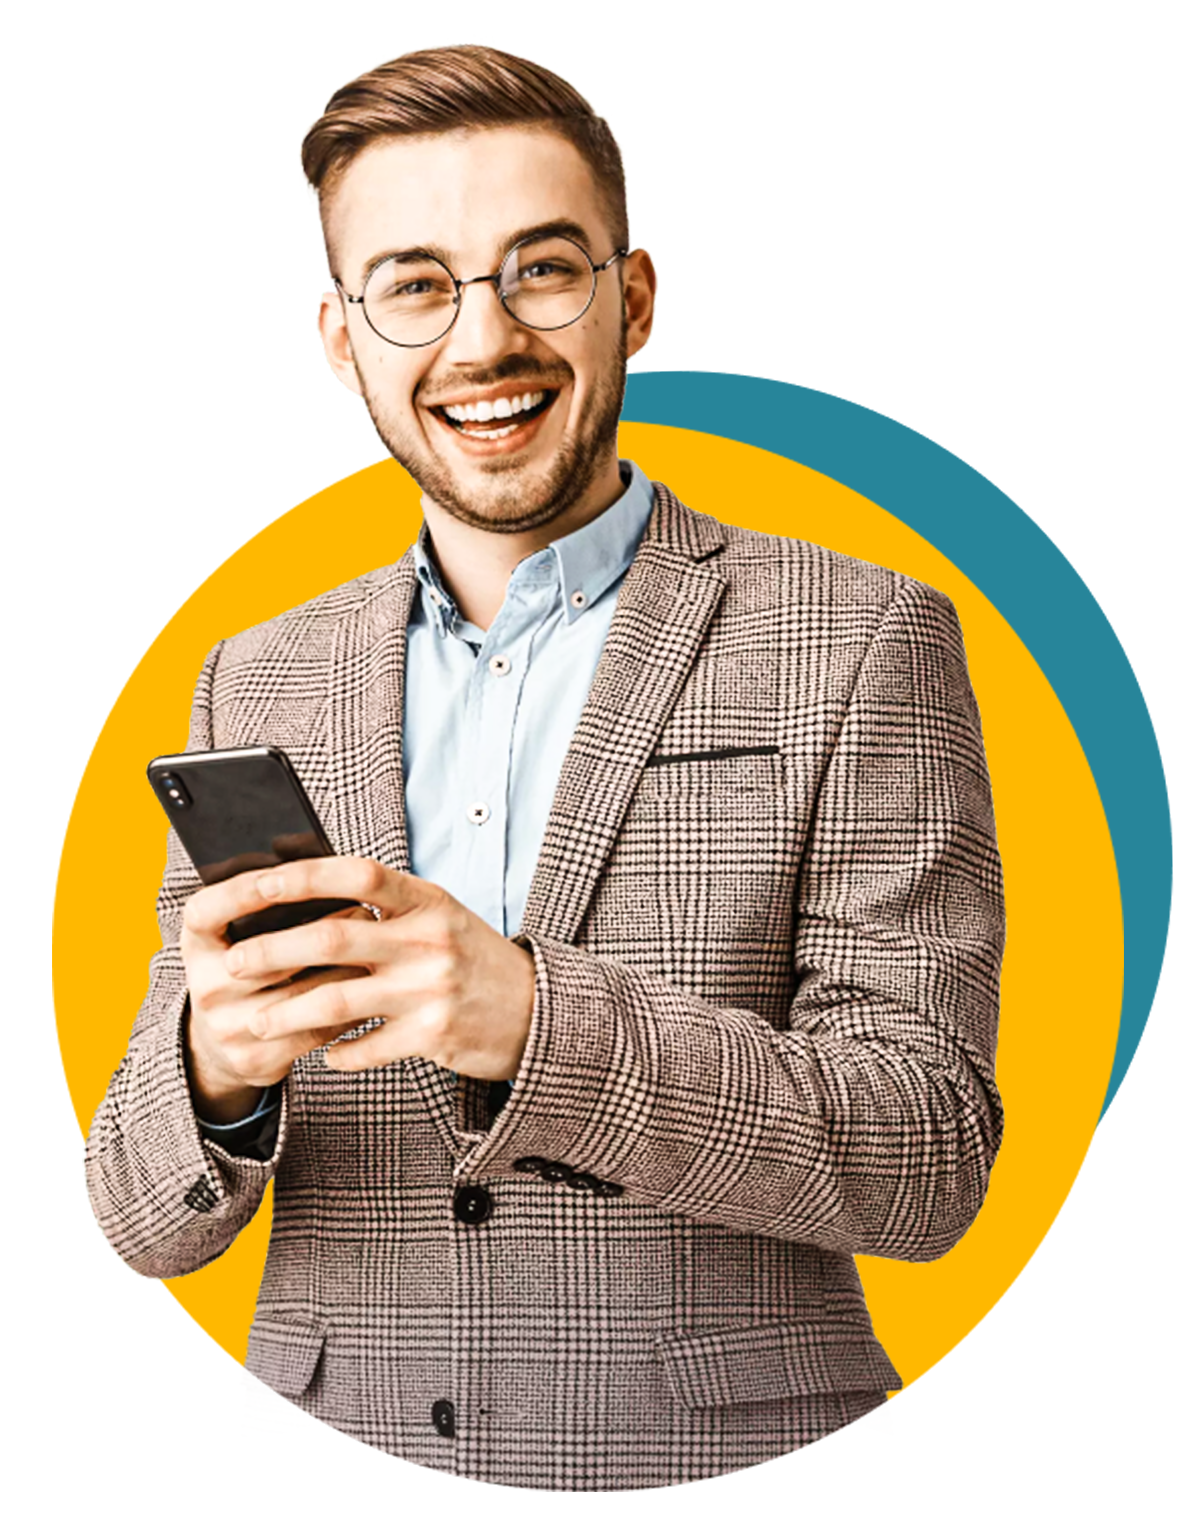
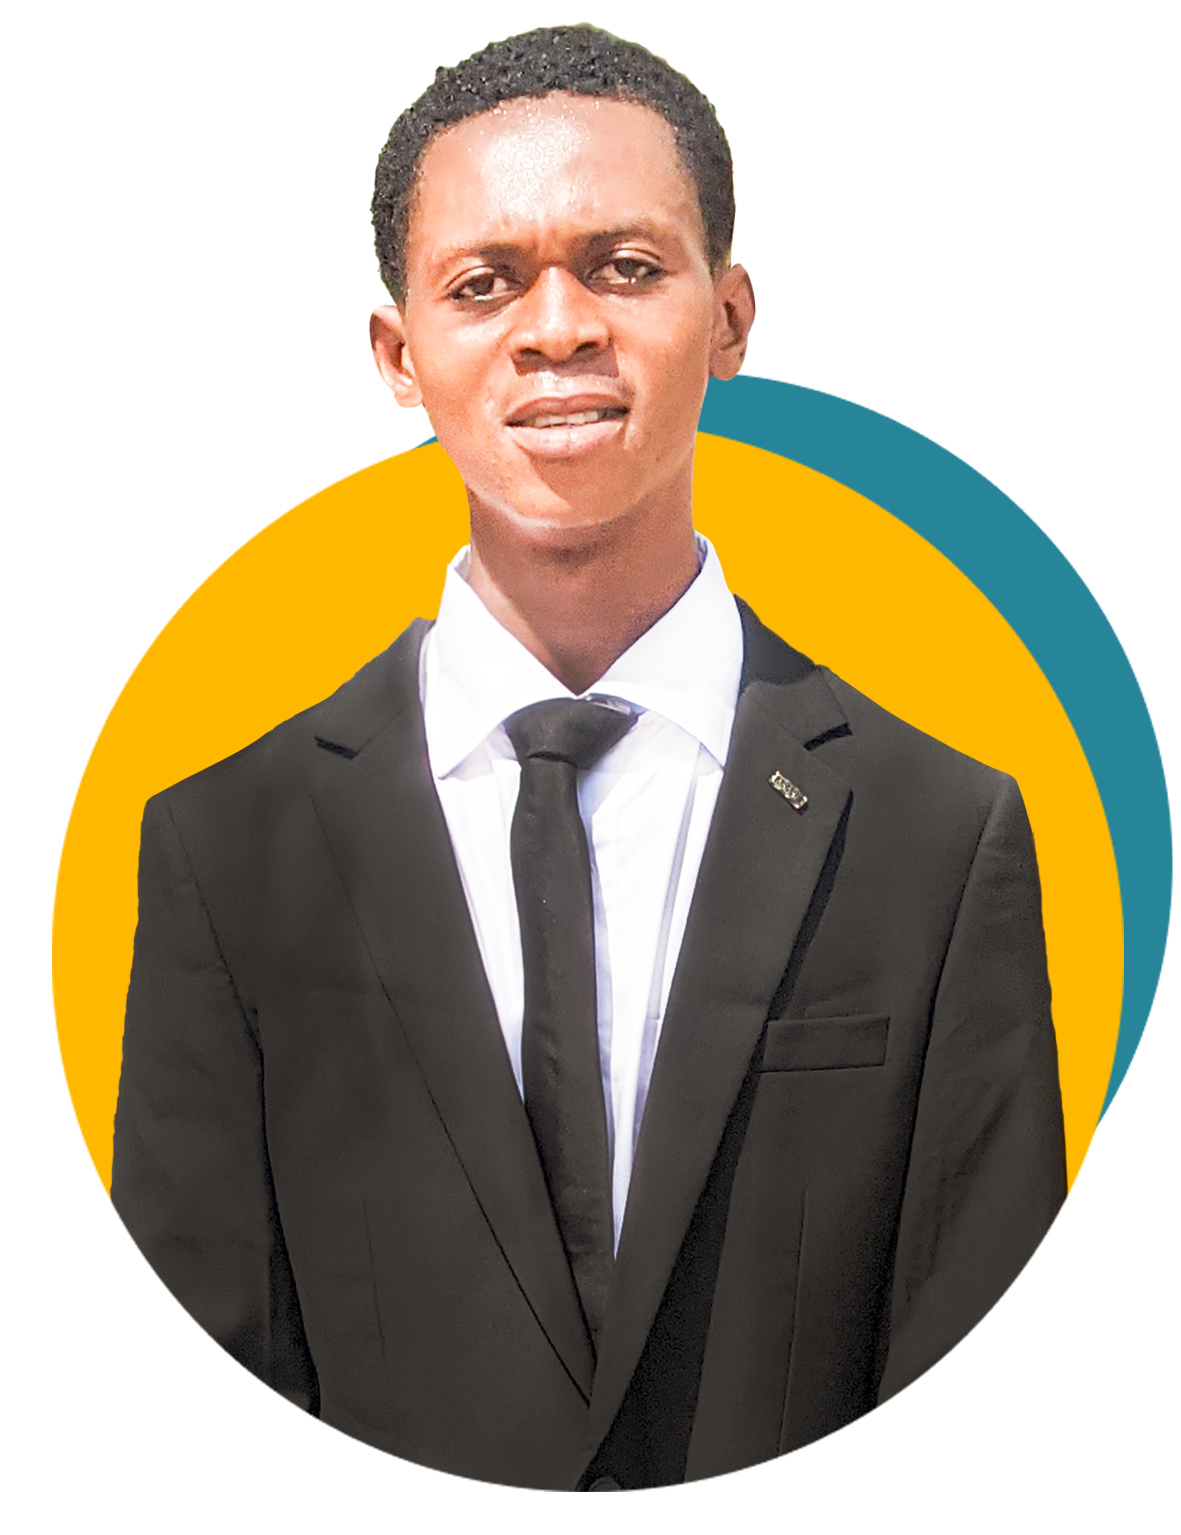
Updated my profile

diff --git a/src/Components/UI/UIDesign.jsx b/src/Components/UI/UIDesign.jsx
@@ -4,13 +4,11 @@ import ImageList from '@mui/material/ImageList';
 import ImageListItem from '@mui/material/ImageListItem';
 import { useMediaQuery } from 'react-responsive';
 import { motion } from 'framer-motion';
-import { useTheme } from '../../ThemeProvider';
-import { FaArrowUp } from "react-icons/fa6";
+import ScrollUp from '../ScrollUp';
 
 export default function UIDesign() {
   const isTabletOrMobile = useMediaQuery({ query: '(max-width: 1224px)' });
   const [selectedImage, setSelectedImage] = React.useState(null);
-  const { theme } = useTheme()
 
   const handleImageClick = (imageSrc) => {
     setSelectedImage(imageSrc);
@@ -50,31 +48,7 @@ export default function UIDesign() {
       </Box>
 
       {isTabletOrMobile && (
-          <motion.div
-            initial={{ opacity: 0, y: '-100%' }}
-            animate={{ opacity: 1, y: '0%' }}
-            exit={{ opacity: 0, y: '-100%' }}
-            transition={{ type: 'spring', stiffness: 100 }}
-            style={{
-              justifyContent: 'center',
-              alignItems: 'center',
-              display: 'flex',
-              gap: '10px',
-              paddingBottom: "10px",
-              position: 'absolute',
-              bottom: '70px',
-              right: '10px',
-              backgroundColor: theme === 'light' ? '#fff' : '#000',
-              width: '50px',
-              height: '40px',
-              borderRadius: '100%',
-              boxShadow: '0px 4px 8px rgba(0, 0, 0, 0.2)',
-            }}
-          >
-            <FaArrowUp style={{color: '#fff', fontSize: '16px', alignItems: 'center', justifyContent: 'center' }}/>
-
-          </motion.div>
-
+          <ScrollUp />
         )}
 
       {selectedImage && isTabletOrMobile && (

diff --git a/src/Components/Sidebar/Sidebar.jsx b/src/Components/Sidebar/Sidebar.jsx
@@ -73,17 +73,6 @@ const Sidebar = ({ children }) => {
                                     <div className="title">
                                         <h3 className="person">Personal Portfolio</h3>
                                     </div>
-                                    <div className="avatar-details">
-                                        <Avatar
-                                            alt="Remy Sharp"
-                                            src="https://encrypted-tbn0.gstatic.com/images?q=tbn:ANd9GcRC8kiSH5ZSAcVoj3tAQQDoP_ux0sSricMyUg&usqp=CAU"
-                                            sx={{ width: 40, height: 40, border: '5px solid rgba(217, 217, 217, 1)' }}
-                                        />
-                                        <div className="name">
-                                            <h5 className="person">Afari Boadu Godwin</h5>
-                                            <p style={{ color: '#acadac' }}>Afgod95.dev</p>
-                                        </div>
-                                    </div>
                                 </div>
                                 <div className="link">
                                     {dashboardLinks.map((item, index) => (

diff --git a/src/Components/Loading.jsx b/src/Components/Loading.jsx
@@ -4,15 +4,15 @@ import Logo from '../../src/assets/Logo.png'
 const Loading = () => {
   return (
     <div style={{justifyContent: 'center', alignItems: 'center', display:'flex', height: '95vh', margin: 'auto', background: '#fff'}}>
-        <div style={{width: '100px', height: '150px', }}>
-            <img src={Logo} alt="Loading"
-                style = {{
-                    width: '100%',
-                    height: '100%',
-                    objectPosition: 'center'
-                }}
-            />
-        </div>
+      <div style={{width: '100px', height: '150px', }}>
+        <img src={Logo} alt="Loading"
+          style = {{
+            width: '100%',
+            height: '100%',
+            objectPosition: 'center'
+          }}
+        />
+      </div>
     </div>
   )
 }

diff --git a/src/Route/Navigation.jsx b/src/Route/Navigation.jsx
@@ -5,6 +5,7 @@ import About from '../Pages/About/About.jsx'
 import Skills from '../Pages/Skills/Skills.jsx'
 import Projects from '../Pages/Projects/Projects.jsx'
 import Sidebar from '../Components/Sidebar/Sidebar.jsx'
+import SoftwareDetails from '../Pages/SoftwareDetails.jsx'
 
 const Navigation = () => {
   return (
@@ -12,7 +13,7 @@ const Navigation = () => {
         <Sidebar >
           <Routes>
               <Route exact path='/'   element ={<Home />}/>
-              {/*<Route exact path='/about'  element ={ <About />}/>*/}
+              <Route exact path='/details'  element ={ <SoftwareDetails />}/>
               <Route exact path='/skills' element={ <Skills />}/>
               <Route exact path='/projects'    element={<Projects />}/>
           </Routes>

diff --git a/src/Components/Graphic_Design/Designs.jsx b/src/Components/Graphic_Design/Designs.jsx
@@ -23,6 +23,7 @@ import All from '../../assets/Graphics/All.jpg'
 import Medaz from '../../assets/Graphics/Medaz.jpg'
 import Naa from '../../assets/Graphics/Naa.jpg'
 import Mira from '../../assets/Graphics/Mira.jpg'
+import Social from '../../assets/Graphics/Social.png'
 
 export  const itemData = [
     {
@@ -81,6 +82,11 @@ export  const itemData = [
     {
         id: 2,
         img: Godya,
+        title: 'Business Flyer'
+    },
+    {
+        id: 2,
+        img: Social,
         title: 'Business Flyer'
     },
     {

diff --git a/src/Pages/Projects/Projects.jsx b/src/Pages/Projects/Projects.jsx
@@ -53,10 +53,6 @@ export default function Projects() {
 
   return (
     <Box sx={{ width: '100%', }}>
-      <div style={{position: 'fixed'}}>
-
-        
-      </div>
       <Box sx={{ borderBottom: 1, borderColor: 'divider' }}>
       <Tabs value={value} onChange={handleChange} aria-label="basic tabs example">
         <Tab label="Software Dev" 

diff --git a/src/Components/Skill.jsx b/src/Components/Skill.jsx
@@ -28,7 +28,7 @@ const Skill = ({ name, percentage }) => {
           observer.unobserve(skillRef.current);
         }
       },
-      { threshold: 0.5 } // Adjust threshold as needed
+      { threshold: 0.5 } 
     );
 
     observer.observe(skillRef.current);

diff --git a/src/Components/Sidebar/Sidebar.css b/src/Components/Sidebar/Sidebar.css
@@ -3,12 +3,12 @@
     --textColor: #000000;
     --sidebarBg:  #ffffff;
     --bgColor: #f1efef;
-  }
+}
   
-  [data-theme = 'dark']{
+[data-theme = 'dark']{
     --textColor: #fff;
     --bgColor: #202020;
-  }
+}
 
 .container{
     width: 100%;

diff --git a/src/Pages/Skills/Skills.css b/src/Pages/Skills/Skills.css
@@ -1,5 +1,5 @@
 [data-theme = 'light']{
-    --bgColor: hwb(0 100% 0%);
+    --bgColor: #fffefe;
 }
   
 [data-theme = 'dark']{
